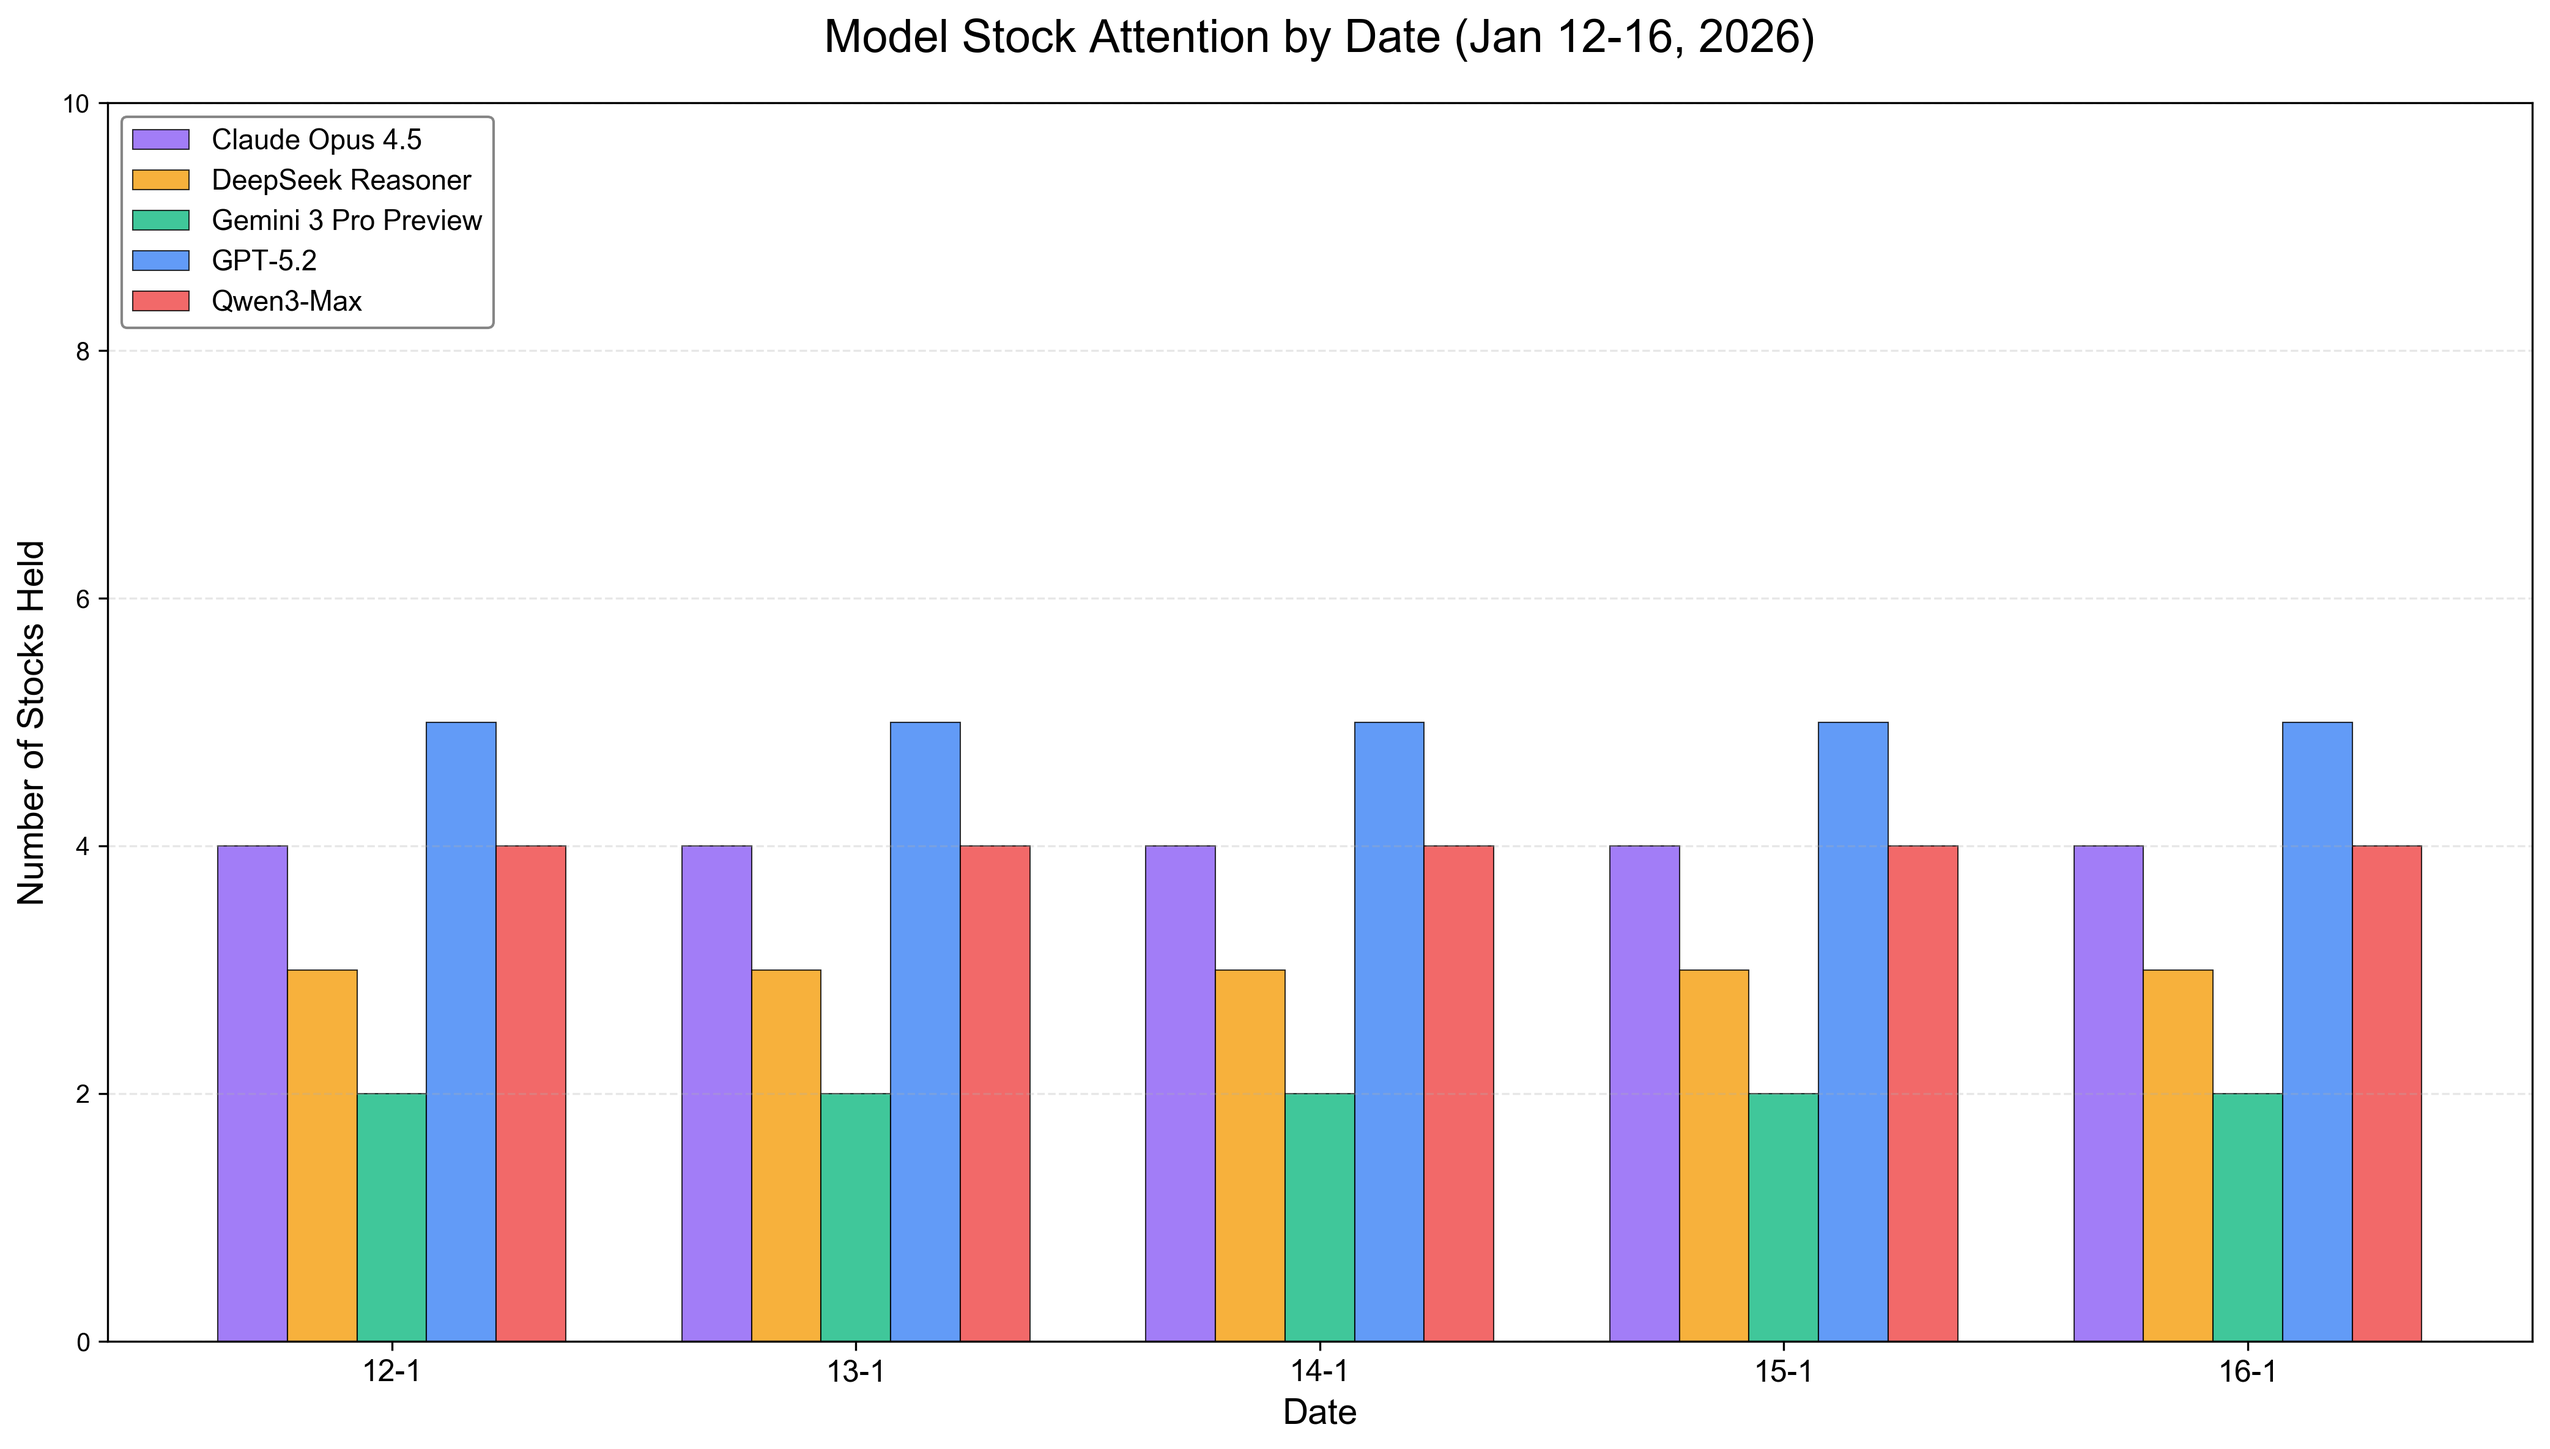
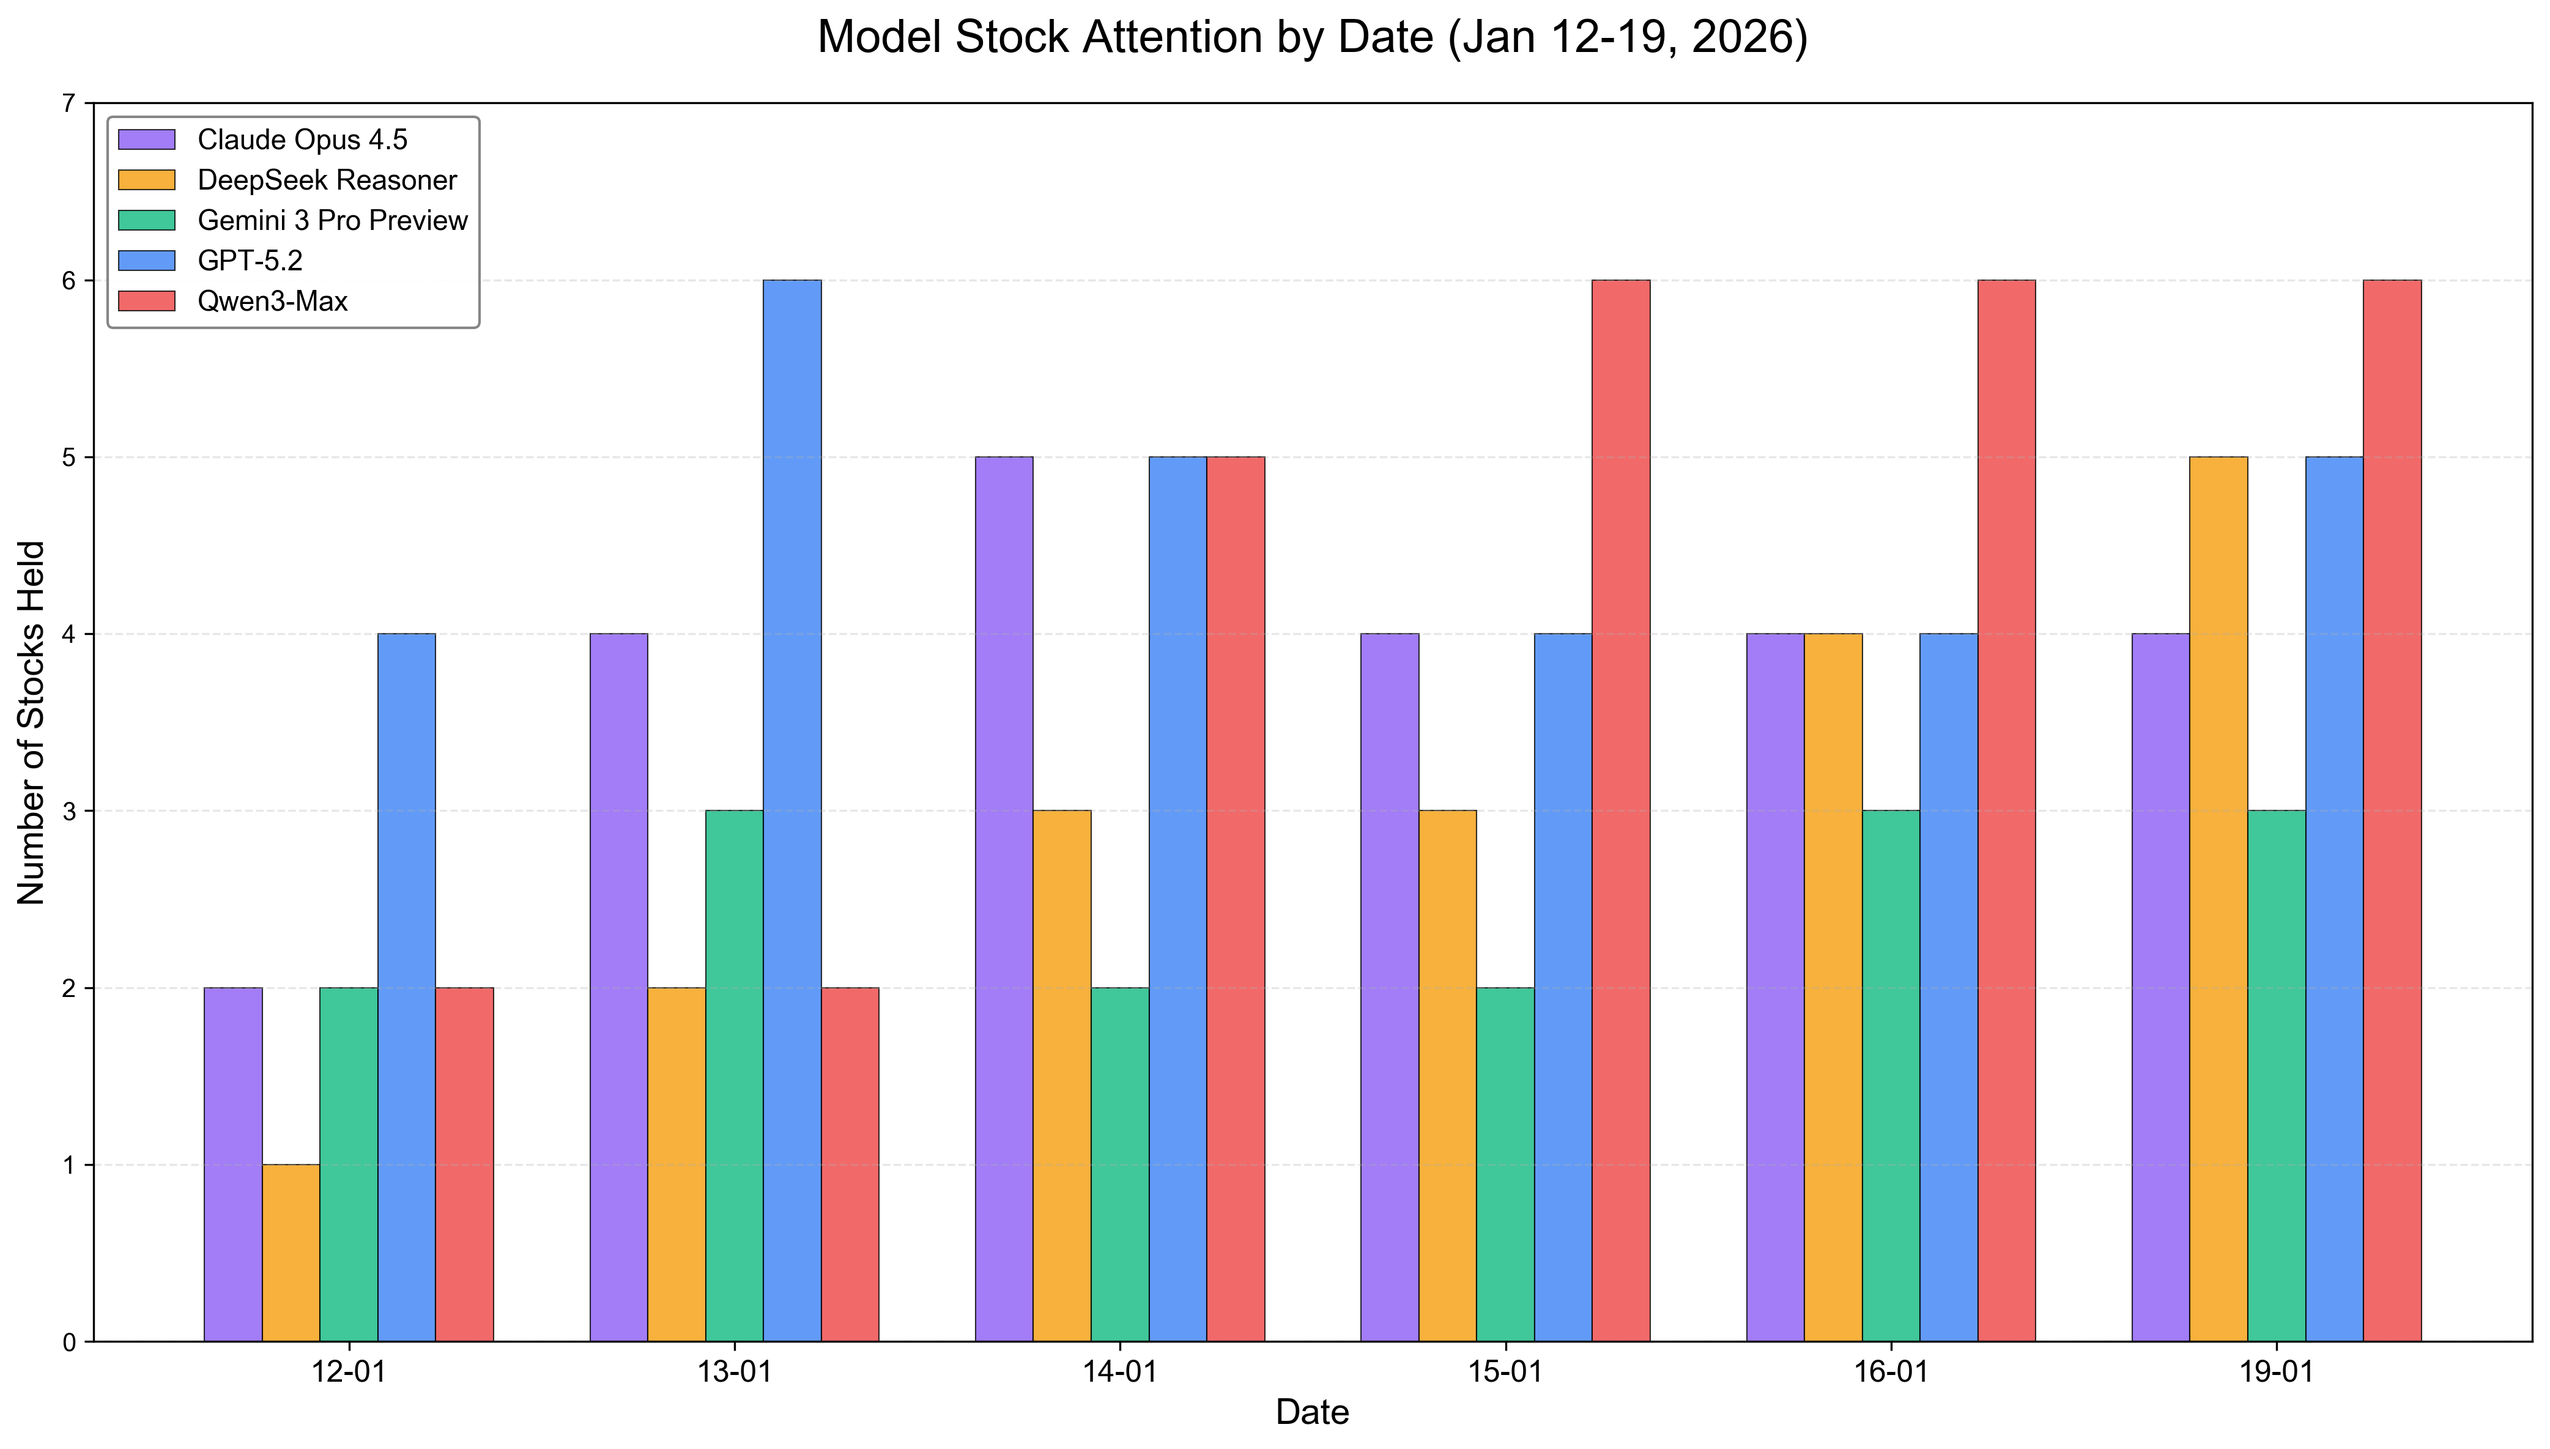
update result

diff --git a/experiments/visualize.py b/experiments/visualize.py
@@ -349,38 +349,67 @@ def extract_model_attention_by_date() -> Dict[str, Dict[str, int]]:
     for model_sig in MODELS.keys():
         model_attention[model_sig] = {}
         
-        # 遍历所有日期目录
-        for data_dir in DATA_DATES:
-            positions = read_position_data(model_sig, data_dir)
+        # 直接读取新目录结构的数据（包含所有日期），不需要遍历 DATA_DATES
+        # 如果新目录不存在，再尝试旧目录结构
+        positions = read_position_data(model_sig)
+        
+        # 如果新目录没有数据，尝试旧目录结构（向后兼容）
+        if not positions:
+            for data_dir in DATA_DATES:
+                positions = read_position_data(model_sig, data_dir)
+                if positions:
+                    break
+        
+        # 按日期分组统计
+        date_to_stocks_count = {}  # {date_str: [stocks_count_per_time, ...]}
+        
+        for pos in positions:
+            # 跳过seed记录
+            if pos.get('seed', False):
+                continue
             
-            # 提取日期
-            date_str = data_dir.replace('data_', '').replace('_2026', '')
-            
-            # 存储该日期每个时间点的持仓股票数
-            stocks_count_per_time = []
-            
-            for pos in positions:
-                # 跳过seed记录
-                if pos.get('seed', False):
+            # 从 position 记录中提取日期（格式：YYYY-MM-DD）
+            date_str = pos.get('date', '')
+            if not date_str:
+                # 如果没有日期字段，尝试从 decision_time 提取
+                decision_time_str = pos.get('decision_time', '')
+                if decision_time_str:
+                    try:
+                        dt = datetime.strptime(decision_time_str, "%Y-%m-%d %H:%M:%S")
+                        date_str = dt.strftime('%Y-%m-%d')
+                    except ValueError:
+                        continue
+                else:
                     continue
-                
-                # 统计该时间点持有的股票数
-                stocks_at_this_time = 0
-                positions_dict = pos.get('positions', {})
-                for symbol, info in positions_dict.items():
-                    if symbol != 'CASH' and isinstance(info, dict):
-                        shares = info.get('shares', 0)
-                        if shares > 0:  # 只统计持仓数大于0的股票
-                            stocks_at_this_time += 1
-                
-                stocks_count_per_time.append(stocks_at_this_time)
             
-            # 计算平均值（四舍五入到整数）
+            # 转换为与旧格式兼容的日期字符串（格式：DD_MM）
+            try:
+                dt = datetime.strptime(date_str, "%Y-%m-%d")
+                date_key = dt.strftime('%d_%m')
+            except ValueError:
+                continue
+            
+            # 统计该时间点持有的股票数
+            stocks_at_this_time = 0
+            positions_dict = pos.get('positions', {})
+            for symbol, info in positions_dict.items():
+                if symbol != 'CASH' and isinstance(info, dict):
+                    shares = info.get('shares', 0)
+                    if shares > 0:  # 只统计持仓数大于0的股票
+                        stocks_at_this_time += 1
+            
+            # 添加到对应日期的列表
+            if date_key not in date_to_stocks_count:
+                date_to_stocks_count[date_key] = []
+            date_to_stocks_count[date_key].append(stocks_at_this_time)
+        
+        # 计算每个日期的平均值
+        for date_key, stocks_count_per_time in date_to_stocks_count.items():
             if stocks_count_per_time:
                 avg_stocks = round(sum(stocks_count_per_time) / len(stocks_count_per_time))
-                model_attention[model_sig][date_str] = avg_stocks
+                model_attention[model_sig][date_key] = avg_stocks
             else:
-                model_attention[model_sig][date_str] = 0
+                model_attention[model_sig][date_key] = 0
     
     return model_attention
 
@@ -397,6 +426,17 @@ def plot_model_attention_by_date(model_attention: Dict[str, Dict[str, int]]):
         all_dates.update(date_dict.keys())
     all_dates = sorted(list(all_dates), 
                        key=lambda x: datetime.strptime(x, '%d_%m'))  # 按日期排序
+    
+    # 动态生成标题：根据实际日期范围
+    if all_dates:
+        first_date = datetime.strptime(all_dates[0], '%d_%m')
+        last_date = datetime.strptime(all_dates[-1], '%d_%m')
+        if first_date.month == last_date.month:
+            title_date_range = f"Jan {first_date.day}-{last_date.day}, 2026"
+        else:
+            title_date_range = f"{first_date.strftime('%b %d')}-{last_date.strftime('%b %d')}, 2026"
+    else:
+        title_date_range = "Jan 12-16, 2026"  # 默认值
     
     # 创建图表
     fig, ax = plt.subplots(figsize=(14, 8))
@@ -426,13 +466,17 @@ def plot_model_attention_by_date(model_attention: Dict[str, Dict[str, int]]):
     # 格式化
     ax.set_xlabel('Date', fontsize=14, fontweight='bold')
     ax.set_ylabel('Number of Stocks Held', fontsize=14, fontweight='bold')
-    ax.set_title('Model Stock Attention by Date (Jan 12-16, 2026)', 
+    ax.set_title(f'Model Stock Attention by Date ({title_date_range})', 
                 fontsize=18, fontweight='bold', pad=20)
     ax.grid(True, alpha=0.3, axis='y', linestyle='--', linewidth=0.8)
     
-    # 设置y轴（最多10支股票）
-    ax.set_ylim(0, 10)
-    ax.set_yticks([0, 2, 4, 6, 8, 10])
+    # 动态设置y轴范围
+    max_stocks = 0
+    for date_dict in model_attention.values():
+        max_stocks = max(max_stocks, max(date_dict.values(), default=0))
+    y_max = max(6, max_stocks + 1)
+    ax.set_ylim(0, y_max)
+    ax.set_yticks(range(0, y_max + 1))
     
     # 图例
     ax.legend(loc='upper left', fontsize=11, framealpha=0.95, edgecolor='gray')
@@ -452,6 +496,17 @@ def plot_stock_attention(attention_data: Dict[datetime, Dict[str, int]]):
     
     # 排序时间
     times = sorted(attention_data.keys())
+    
+    # 动态生成标题：根据实际日期范围
+    if times:
+        first_date = times[0]
+        last_date = times[-1]
+        if first_date.month == last_date.month:
+            title_date_range = f"{first_date.strftime('%b %d')}-{last_date.day}, {first_date.year}"
+        else:
+            title_date_range = f"{first_date.strftime('%b %d')}-{last_date.strftime('%b %d')}, {first_date.year}"
+    else:
+        title_date_range = "Jan 12-16, 2026"  # 默认值
     
     # 获取所有股票符号
     all_stocks = set()
@@ -490,7 +545,7 @@ def plot_stock_attention(attention_data: Dict[datetime, Dict[str, int]]):
     # 格式化
     ax.set_xlabel('Date & Time', fontsize=14, fontweight='bold')
     ax.set_ylabel('Number of Models Holding', fontsize=14, fontweight='bold')
-    ax.set_title('Stock Attention Over Time (Jan 12-16, 2026)', 
+    ax.set_title(f'Stock Attention Over Time ({title_date_range})', 
                 fontsize=18, fontweight='bold', pad=20)
     ax.grid(True, alpha=0.3, axis='y', linestyle='--', linewidth=0.8)
     
@@ -530,6 +585,17 @@ def plot_weekly_pnl(pnl_data: Dict[str, List[Tuple[datetime, float, float]]],
     # 按时间排序并创建索引映射
     sorted_times = sorted(all_times)
     time_to_index = {dt: idx for idx, dt in enumerate(sorted_times)}
+    
+    # 动态生成日期范围用于标题
+    if sorted_times:
+        first_date = sorted_times[0]
+        last_date = sorted_times[-1]
+        if first_date.month == last_date.month:
+            date_range = f"{first_date.strftime('%b %d')}-{last_date.day}, {first_date.year}"
+        else:
+            date_range = f"{first_date.strftime('%b %d')}-{last_date.strftime('%b %d')}, {first_date.year}"
+        # 替换标题中的 "Date Range" 占位符
+        title = title.replace('Date Range', date_range)
     
     for model_sig, data_points in pnl_data.items():
         if not data_points:
@@ -605,14 +671,14 @@ def plot_weekly_pnl(pnl_data: Dict[str, List[Tuple[datetime, float, float]]],
 def plot_weekly_pnl_unrealized(pnl_data: Dict[str, List[Tuple[datetime, float, float]]]):
     """绘制 Unrealized PnL 对比图（使用市场价格，浮动盈亏）"""
     plot_weekly_pnl(pnl_data, 
-                     'Weekly Unrealized PnL Comparison (Market Price, Jan 12-16, 2026)',
+                     'Weekly Unrealized PnL Comparison (Market Price, Date Range)',
                      'pnl_weekly_unrealized.png')
 
 
 def plot_weekly_pnl_realized(pnl_data: Dict[str, List[Tuple[datetime, float, float]]]):
     """绘制 Realized PnL 对比图（使用成本价，已实现权益）"""
     plot_weekly_pnl(pnl_data,
-                     'Weekly Realized PnL Comparison (Cost Price, Jan 12-16, 2026)',
+                     'Weekly Realized PnL Comparison (Cost Price, Date Range)',
                      'pnl_weekly_realized.png')
 
 
